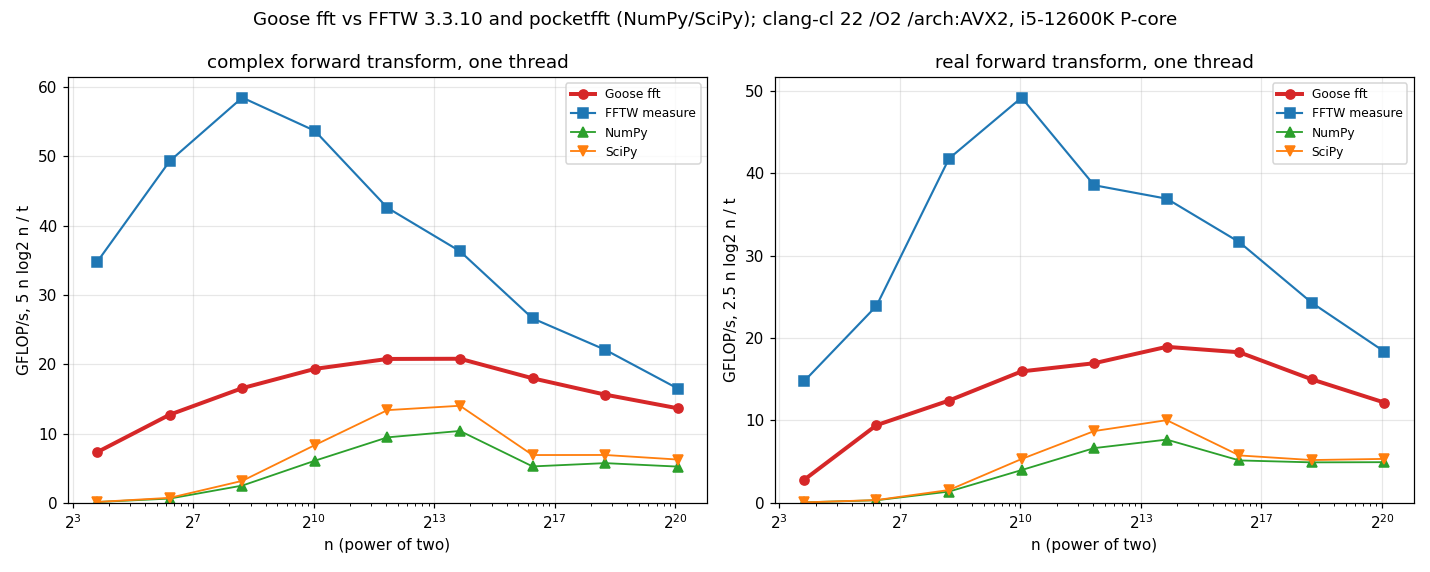
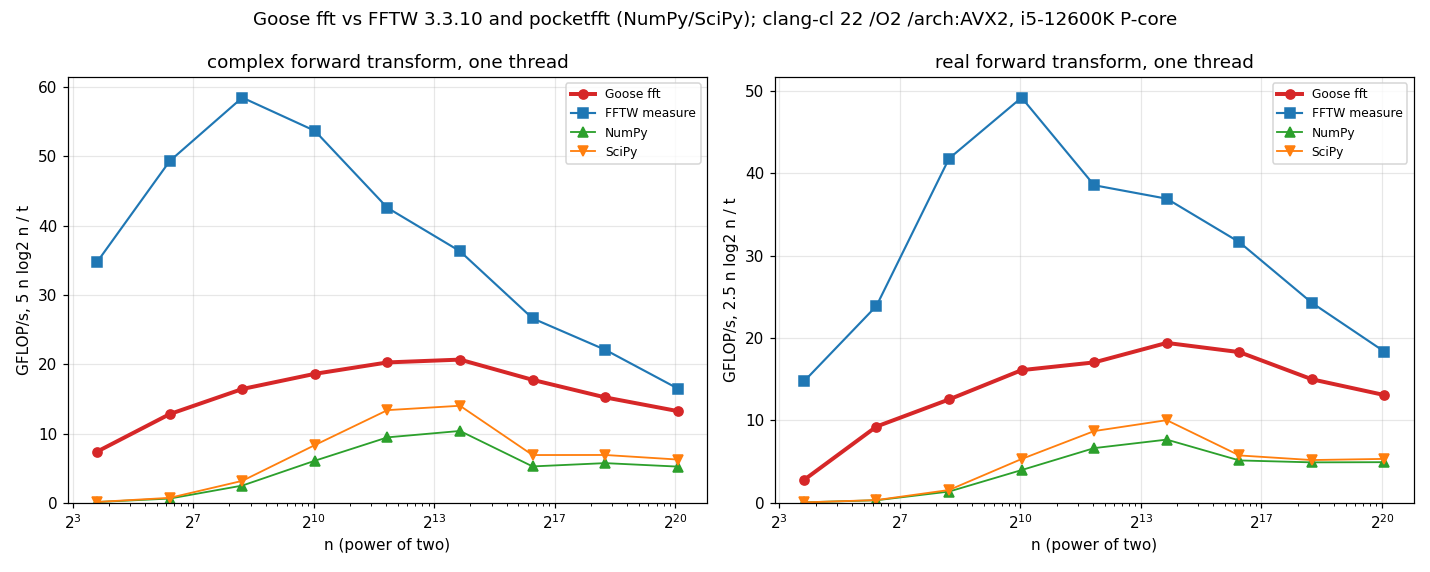
Fused multiply-adds through math::mul_add (aardappel/goose#79)
The radix-3 and radix-5 butterflies, the general odd radix, the real
passes and the generated codelets use mul_add, through lane-wise fma4,
fms4 and fnma4: 4-9% faster at mixed-radix complex lengths and 7-20% at
real ones, powers of two unchanged. Fusing the twiddle multiplies too
measured 10-14% slower on powers of two, so they stay separate. The
package now needs a Goose with mul_add; the README says how to get one
and has the new measurements.

diff --git a/tools/gen_codelets.py b/tools/gen_codelets.py
@@ -8,7 +8,8 @@ split-radix decomposition (radix 2 and 4 butterflies, sizes that are powers
 of two) or, for other sizes, as a mixed-radix Cooley-Tukey decomposition
 over radices 2, 3, 4 and 5; constants are folded, multiplications by
 trivial twiddles (1, -1, +-i, (+-1 +-i)/sqrt 2) become additions, signs are
-pushed outward, and equal subexpressions are shared. The result is printed
+pushed outward, equal subexpressions are shared, and a multiplication that
+only one addition uses fuses into it (fma4 and its kin, in fft.goose). The result is printed
 as one let per operation, which the C compiler schedules and vectorizes.
 """
 import cmath
@@ -230,21 +231,56 @@ def emit(n):
     for re, im in y:
         mark(re[0])
         mark(im[0])
+    # A multiplication by a constant that only one addition uses fuses into
+    # it: fma4 (k x + b), fms4 (k x - b) or fnma4 (b - k x).
+    uses = {}
+    for i in used:
+        op = d.nodes[i]
+        kids = [op[1], op[2]] if op[0] in ("add", "sub") else [op[2]] if op[0] == "mul" else []
+        for c in kids:
+            uses[c] = uses.get(c, 0) + 1
+    for re, im in y:
+        for v in (re[0], im[0]):
+            if v is not None:
+                uses[v] = uses.get(v, 0) + 1
+    fused = {}                       # add node -> (index of the mul operand, mul node)
+    absorbed = set()
+    for i in sorted(used):
+        op = d.nodes[i]
+        if op[0] not in ("add", "sub"):
+            continue
+        for side in (2, 1):
+            c = op[side]
+            if d.nodes[c][0] == "mul" and uses.get(c) == 1 and c not in absorbed:
+                fused[i] = (side, c)
+                absorbed.add(c)
+                break
     lines = []
-    adds = muls = 0
+    adds = muls = fmas = 0
     names = {}
     for key, (name, c) in sorted(d.consts.items(), key=lambda kv: kv[1][0]):
         if any(d.nodes[i][0] == "mul" and d.nodes[i][1] == key for i in used):
             lines.append(f"    let {name} = splat({c!r});")
     for i, op in enumerate(d.nodes):
-        if i not in used:
+        if i not in used or i in absorbed:
             continue
         if op[0] == "in":
             names[i] = f"a[{op[1]}].{op[2]}"
             continue
         nm = f"t{i}"
         names[i] = nm
-        if op[0] == "add":
+        if i in fused:
+            side, m = fused[i]
+            k, x = d.consts[d.nodes[m][1]][0], names[d.nodes[m][2]]
+            other = names[op[3 - side]]
+            if op[0] == "add":
+                lines.append(f"    let {nm} = fma4({k}, {x}, {other});")
+            elif side == 2:
+                lines.append(f"    let {nm} = fnma4({k}, {x}, {other});")
+            else:
+                lines.append(f"    let {nm} = fms4({k}, {x}, {other});")
+            fmas += 1
+        elif op[0] == "add":
             lines.append(f"    let {nm} = {names[op[1]]} + {names[op[2]]};")
             adds += 1
         elif op[0] == "sub":
@@ -274,7 +310,7 @@ def emit(n):
     text = (f"// {n} points: {adds} additions and {muls} multiplications per lane.\n"
             f"inline fn dft{n}(a: cv4[:]) {{\n    assert(a.len == {n});\n"
             + "\n".join(loads) + "\n" + body + "\n" + "\n".join(out_lines) + "\n}\n")
-    return text, adds, muls
+    return text, adds, muls, fmas
 
 
 def main():
@@ -286,9 +322,9 @@ def main():
              "// the one for a.len, and `has_codelet(n)` says whether there is one.\n\n"
              "namespace fft;\n"]
     for n in sizes:
-        text, adds, muls = emit(n)
+        text, adds, muls, fmas = emit(n)
         parts.append("\n" + text)
-        print(f"dft{n}: {adds} adds, {muls} muls", file=sys.stderr)
+        print(f"dft{n}: {adds} adds, {muls} muls, {fmas} fmas", file=sys.stderr)
     cases = "\n".join(f"        {n} => dft{n}(a)," for n in sizes)
     parts.append("\nfn has_codelet(n: i64) -> bool {\n    match n {\n"
                  + "\n".join(f"        {n} => true," for n in sizes)

diff --git a/README.md b/README.md
@@ -18,6 +18,14 @@ fn main() {
 Goose fetches the package the first time a program uses it. Pin a tag, as here, or a commit
 (`"guillochon/goose-fft@<commit>"`).
 
+**Requires `math::mul_add`**, which Goose gains with
+[aardappel/goose#79](https://github.com/aardappel/goose/pull/79) and no release has yet. Until one
+does, build Goose from that branch:
+
+```bash
+git clone -b mul-add https://github.com/guillochon/goose
+```
+
 ## Conventions
 
 - A complex number is `fft::complex { re, im }`, so a `complex[]` is laid out like C99's
@@ -70,7 +78,13 @@ Goose fetches the package the first time a program uses it. Pin a tag, as here, 
   runs). The Stockham passes autosort, so no bit-reversal pass is needed.
 - **Codelets.** Lengths up to 64 whose two factors are both 2, 3, 4, 5, 6 or 8 run each step as a
   generated straight-line codelet (`codelets.goose`, from `tools/gen_codelets.py`), with constants
-  folded and trivial twiddles turned into additions; both steps inline into one kernel.
+  folded, trivial twiddles turned into additions, and each multiplication by a constant fused into
+  the addition that uses it; both steps inline into one kernel.
+- **Fused multiply-adds.** The radix-3 and radix-5 butterflies, the general odd-radix pass, the
+  real transforms' passes and the codelets use `math::mul_add` (through lane-wise `fma4`, `fms4`
+  and `fnma4`), which rounds once where the code is built for FMA. The twiddle multiplies don't: on
+  this code clang packs the fused form into vectors less well, and it measured slower (see
+  Performance).
 - **Real transforms** of even length n are a complex transform of n/2 points of the packed
   samples, then one O(n) pass that separates the even and odd halves. Odd lengths go through the
   complex transform.
@@ -90,9 +104,11 @@ ahead of MSVC; `GOOSE_CC` or `--cc` picks another.
   fast build.
 - **Under MSVC:** `simd` does nothing, so enable AVX2 yourself: `CL="/arch:AVX2" goose build
   yourprogram.goose`. With gcc or clang outside clang-cl, the equivalent is `-march=x86-64-v3`.
-- **No FMA:** Goose turns floating-point contraction off in the C it generates, so results don't
-  depend on the compiler. FFTW's AVX2 kernels do use fused multiply-adds, which accounts for part
-  of the gap below.
+- **FMA:** Goose never contracts `a * b + c` on its own, so results don't depend on the compiler;
+  `math::mul_add` asks for the fused form explicitly. It fuses in the AVX2 and AVX-512 versions of
+  `simd fn`s under clang, and everywhere in a build for AVX2 (`/arch:AVX2`, `-march=x86-64-v3`) or
+  for arm64. Elsewhere (MSVC without `/arch:AVX2`, the in-process `goose run`) it rounds twice, and
+  the last bits of a transform differ accordingly.
 
 ## Performance
 
@@ -103,7 +119,7 @@ ahead of MSVC; `GOOSE_CC` or `--cc` picks another.
 | CPU | Intel Core i5-12600K (Alder Lake): 6 performance cores, 3.7 GHz base, 4.9 GHz turbo, 48 KB L1d and 1.25 MB L2 each; 20 MB shared L3 |
 | Memory | 32 GB DDR5-6200 |
 | OS | Windows 11 Home 23H2 (build 22631), High performance power plan |
-| Goose | v2026.3, compiled by clang-cl 22.1.3 (Visual Studio 2026) with `/O2 /arch:AVX2`. A plain `goose build` measured within 5% of that at every length. |
+| Goose | built from [aardappel/goose#79](https://github.com/aardappel/goose/pull/79) (commit 3d03680, adding `math::mul_add`), compiling with clang-cl 22.1.3 (Visual Studio 2026) and `/O2 /arch:AVX2`. A plain `goose build` measured within 8% of that at every length. |
 | FFTW | 3.3.10, built from source by the same clang-cl with `/O2 /arch:AVX2` and FFTW's AVX, AVX2 and FMA kernels (`bench/get_fftw.ps1`), out-of-place `FFTW_MEASURE` plans |
 | pocketfft | NumPy 2.2.6 and SciPy 1.16.0 on Python 3.12, `scipy.fft` with `workers=1` |
 | Pinning | Every run on logical CPU 4, a performance core |
@@ -121,29 +137,37 @@ Times in µs, single-threaded:
 | n | Goose | FFTW | NumPy | SciPy | Goose / FFTW |
 |---|---|---|---|---|---|
 | **complex** | | | | | |
-| 64 | 0.151 | 0.039 | 3.12 | 2.67 | 3.9× |
-| 1,024 | 2.65 | 0.95 | 8.43 | 6.15 | 2.8× |
-| 4,096 | 11.8 | 5.77 | 26.0 | 18.4 | 2.1× |
-| 65,536 | 292 | 197 | 998 | 760 | 1.5× |
-| 2²⁰ | 7,685 | 6,356 | 20,053 | 16,783 | 1.2× |
-| 1,000 | 2.99 | 1.14 | 8.81 | 5.96 | 2.6× |
-| 100,000 | 527 | 271 | 1,529 | 1,107 | 1.9× |
-| 1,000,000 | 7,654 | 6,912 | 17,338 | 13,402 | 1.1× |
-| 1,009 (prime) | 16.6 | 13.2 | 42.7 | 26.3 | 1.3× |
-| 10,007 (prime) | 204 | 125 | 679 | 263 | 1.6× |
+| 64 | 0.150 | 0.039 | 3.12 | 2.67 | 3.9× |
+| 1,024 | 2.75 | 0.95 | 8.43 | 6.15 | 2.9× |
+| 4,096 | 12.1 | 5.77 | 26.0 | 18.4 | 2.1× |
+| 65,536 | 295 | 197 | 998 | 760 | 1.5× |
+| 2²⁰ | 7,921 | 6,356 | 20,053 | 16,783 | 1.2× |
+| 1,000 | 2.84 | 1.14 | 8.81 | 5.96 | 2.5× |
+| 100,000 | 525 | 271 | 1,529 | 1,107 | 1.9× |
+| 1,000,000 | 7,593 | 6,912 | 17,338 | 13,402 | 1.1× |
+| 1,009 (prime) | 16.5 | 13.2 | 42.7 | 26.3 | 1.3× |
+| 10,007 (prime) | 195 | 125 | 679 | 263 | 1.6× |
 | **real** | | | | | |
-| 1,024 | 1.61 | 0.52 | 6.44 | 4.81 | 3.1× |
+| 1,024 | 1.59 | 0.52 | 6.44 | 4.81 | 3.1× |
 | 65,536 | 143 | 82.9 | 509 | 456 | 1.7× |
-| 2²⁰ | 4,309 | 2,858 | 10,623 | 9,830 | 1.5× |
-| 1,000,000 | 4,190 | 2,788 | 9,598 | 9,062 | 1.5× |
+| 2²⁰ | 4,009 | 2,858 | 10,623 | 9,830 | 1.4× |
+| 1,000,000 | 3,826 | 2,788 | 9,598 | 9,062 | 1.4× |
 
 In short:
-- **Against pocketfft through NumPy and SciPy**, Goose is faster at every length measured, 1.3–2.6×
+- **Against pocketfft through NumPy and SciPy**, Goose is faster at every length measured, 1.3–3.8×
   at lengths of 4,096 and up, where Python's call overhead no longer matters.
 - **Against FFTW**, Goose takes 1.1–1.7× FFTW's time on long transforms (2¹⁶ points and up) and
-  2–4× on short ones. FFTW's kernels use FMA, which Goose's C never does, and its codelets keep
-  transforms of up to 64 points in registers. In Goose those take passes through memory, as long
-  straight-line codelets compile poorly (see below).
+  2–4× on short ones. FFTW's codelets keep transforms of up to 64 points in registers; in Goose
+  those take passes through memory, as long straight-line codelets compile poorly (see below).
+
+**What FMA gained.** Against the same code with every `mul_add` written as a multiply and an add,
+on the same compiler: mixed-radix lengths (factors of 3 and 5) ran 4–9% faster as complex
+transforms and 7–20% faster as real ones; powers of two were unchanged, within 3%. Fusing the
+twiddle multiplies as well (`fms4`/`fma4` in every pass) made powers of two 10–14% *slower*: the
+radix-8 pass's struct arithmetic already reaches clang's SLP vectorizer half-packed (two-lane
+operations and spills alongside the four-lane ones), and the fused calls packed worse still. So
+this FFT is bound by how well the lanes vectorize and by moving data, not by its multiplies,
+unlike a matrix multiply, where `mul_add` gave goose-linalg 1.34×.
 
 How it got here, at n = 4,096 complex (FFTW: 5.8 µs):
 
@@ -154,6 +178,7 @@ How it got here, at n = 4,096 complex (FFTW: 5.8 µs):
 | Four-lane `v4` structs | 13.3 | Each butterfly is whole-struct arithmetic, which clang vectorizes with no overlap checks at all. |
 | Real and imaginary side by side (`cv4`), radix 8 | 12.6 | Half the pointers per pass, and radix 8 does 1.5× the work per load and store of radix 4. |
 | Small generated codelets, one kernel for lengths up to 64 | 11.8 | The 16- to 64-point codelets compiled to code with thousands of spills and scalar operations (clang's SLP vectorizer gives up on long blocks), so only those up to 8 points are used. |
+| `math::mul_add` in the odd radices, real passes and codelets | 12.1 | Unchanged here (within noise); 4–20% at mixed-radix lengths. |
 
 Tried and dropped: fusing step A's first pass with the load of x and step B's last pass with the
 store of y (20–45% slower: the extra strided loads inside the radix-8 butterfly cost more registers
@@ -177,8 +202,9 @@ python compare.py
 builds `bench_fftw.exe` against it. `run_bench.ps1` builds and runs the Goose benchmark, FFTW
 (measure and patient planning; patient planning of the long and prime lengths takes hours, and
 wasn't measured above) and NumPy/SciPy, each pinned to one core; `-Core` picks another,
-`-Only goose|fftw|numpy` runs one, and `-Flags` sets the C compiler flags for the Goose build.
-`bench/profile.goose` times the phases of one transform and `bench/sweep.goose` sweeps the block
+`-Only goose|fftw|numpy` runs one, and `-Flags` sets the C compiler flags for the Goose build (`none` for a plain build).
+`bench/quick.goose` times a few lengths for comparing variants, `bench/profile.goose` times the
+phases of one transform, and `bench/sweep.goose` sweeps the block
 size, for tuning.
 
 ## Tests
@@ -201,7 +227,8 @@ The suite runs 641 checks and exits 1 on any failure:
 - **2-D** transforms against a direct double sum, including 1×n, n×1 and odd shapes.
 - **Helpers** against hand-worked values, and `convolve` against the direct sum.
 
-The suite passes in-process and as native builds with clang-cl 22 and MSVC 19.51, plain and with
+The suite passes on Goose built from aardappel/goose#79, in-process (where `mul_add` rounds twice)
+and as native builds with clang-cl 22 and MSVC 19.51, plain and with
 `/arch:AVX2`.
 
 `examples/spectrum.goose` finds the tones in a noisy signal, smooths it by convolution, and
